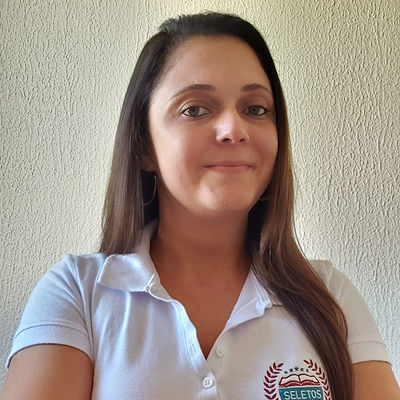
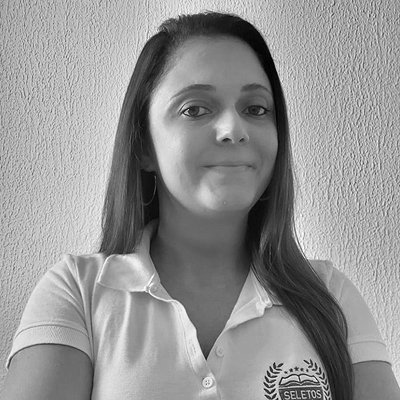
Update website pic prof and testemonials

diff --git a/index.html b/index.html
@@ -386,7 +386,7 @@
                         <li class="glide__slide">
                             <div class="testimonials-container">
                                 <img class="testimonials-img" src="./assets/img/testimonial-edna.png" alt="">
-                                <h3 class="testimonials-text">Olá! Sou a Edna tenho um filho que hoje está com 18 anos. Já faz alguns anos que ele tem aulas com o professor Roberto, no começo era só matemática, hoje além da matemática incluiu aulas de Excel, onde melhorou ainda mais o desempenho e interesse do meu filho. Só tenho a agradecer pela ajuda e paciência dessa pessoa incrível para com meu filho! ❤</h3>
+                                <h3 class="testimonials-text">Já faz alguns anos que ele tem aulas com o professor Roberto, no começo era só matemática, hoje além da matemática incluiu aulas de Excel, onde melhorou ainda mais o desempenho e interesse do meu filho. Só tenho a agradecer pela ajuda e paciência dessa pessoa incrível para com meu filho! ❤</h3>
                                 <h2 class="testimonials-name">Edna Felício</h2>
                                 <p class="testimonials-course">Aluno de Aulas Particulares</p>
                             </div>
@@ -395,7 +395,7 @@
                         <li class="glide__slide">
                             <div class="testimonials-container">
                                 <img class="testimonials-img" src="./assets/img/testimonial-enzo.png" alt="">
-                                <h3 class="testimonials-text">Tive aulas particulares com o professor Roberto Filipe durante o nono ano e metade do primeiro colegial. Em todo esse período, além de um grande amigo, Roberto sempre foi muito pontual, comprometido, profissional, atencioso, educado, didático e tantas outras qualidades. Sua ajuda foi extremamente fundamental para meu aprendizado em exatas, uma vez que conseguiu sanar todas as minhas dificuldades. Durante a aula, primeiro era dada a teoria e, posteriormente, me auxiliava a aplicar o conceito na prática, ou seja, na resolução de exercícios, tanto os propostos por ele quanto os recomendados por minha escola. Dessa forma, posso dizer, com firmeza, que foi ele quem me ensinou toda a base que tenho hoje.</h3>
+                                <h3 class="testimonials-text">Tive aulas particulares com o professor Roberto Filipe durante o nono ano e metade do primeiro colegial. Em todo esse período, além de um grande amigo, Roberto sempre foi muito pontual, comprometido e profissional!</h3>
                                 <h2 class="testimonials-name">Enzo</h2>
                                 <p class="testimonials-course">Aluno de Concurso Público</p>
                             </div>
